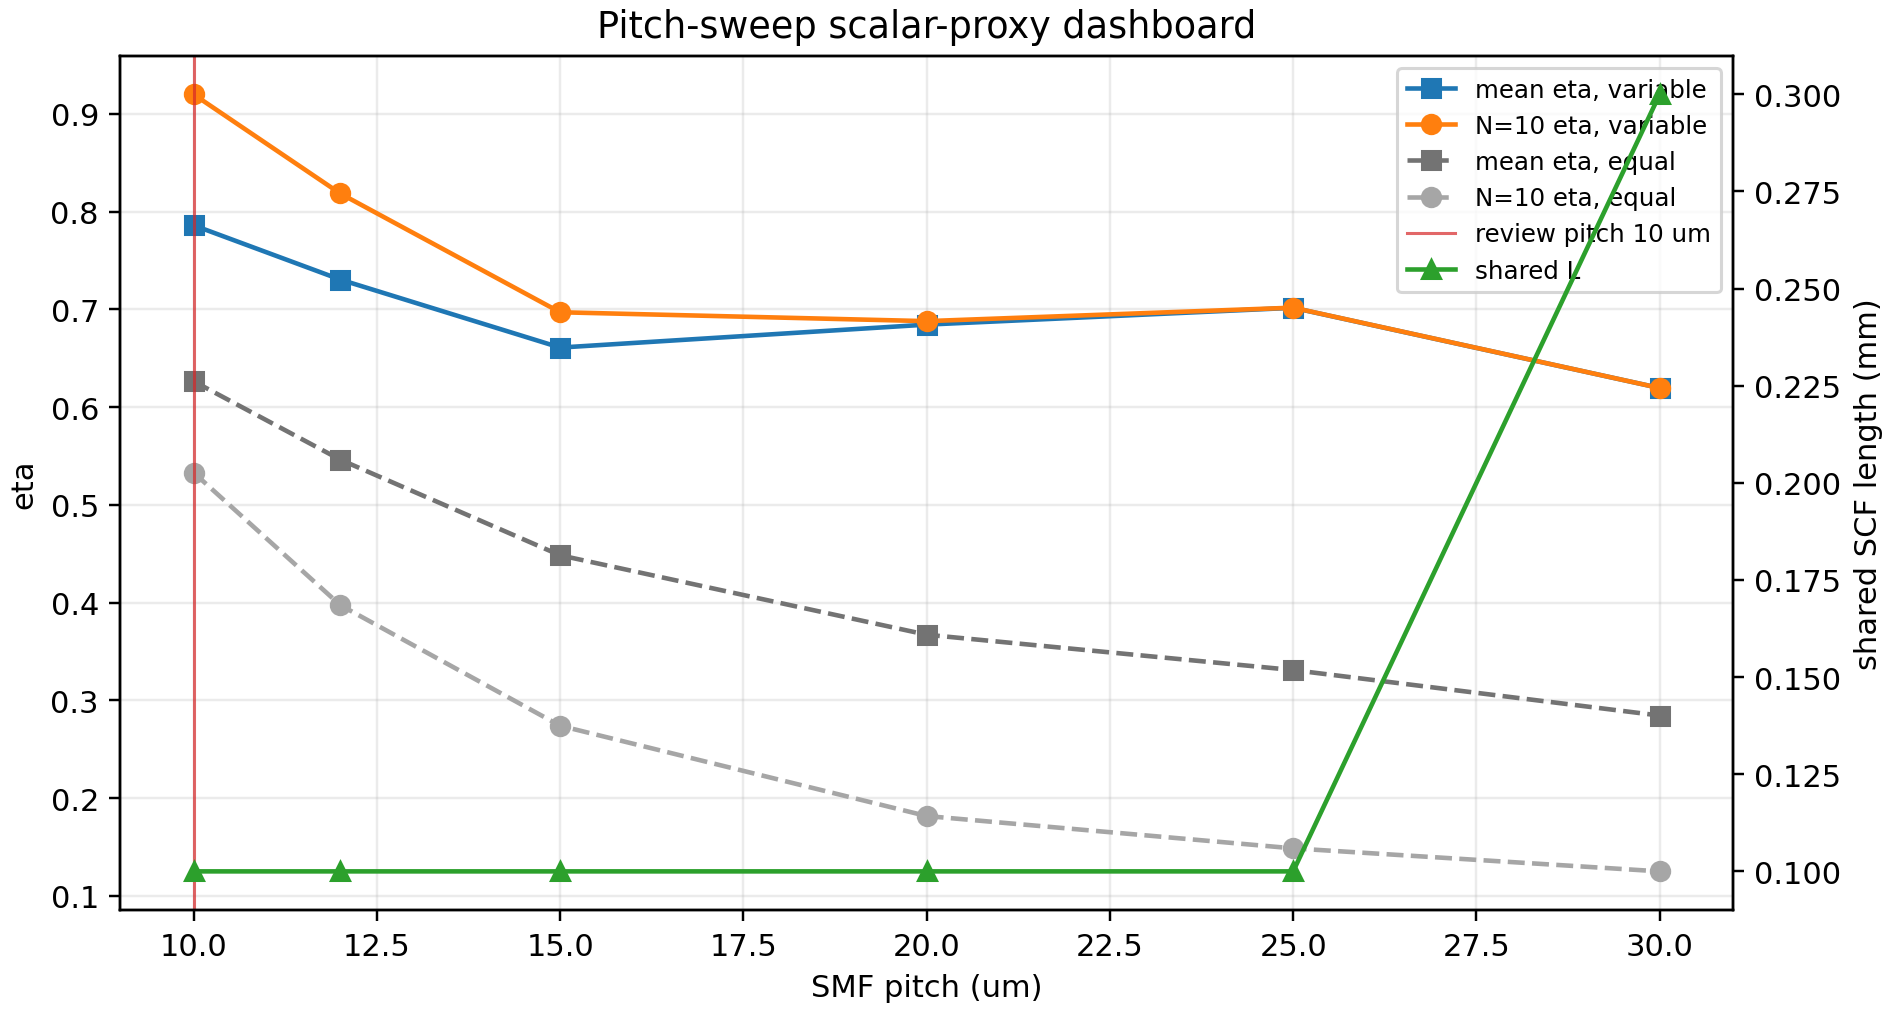
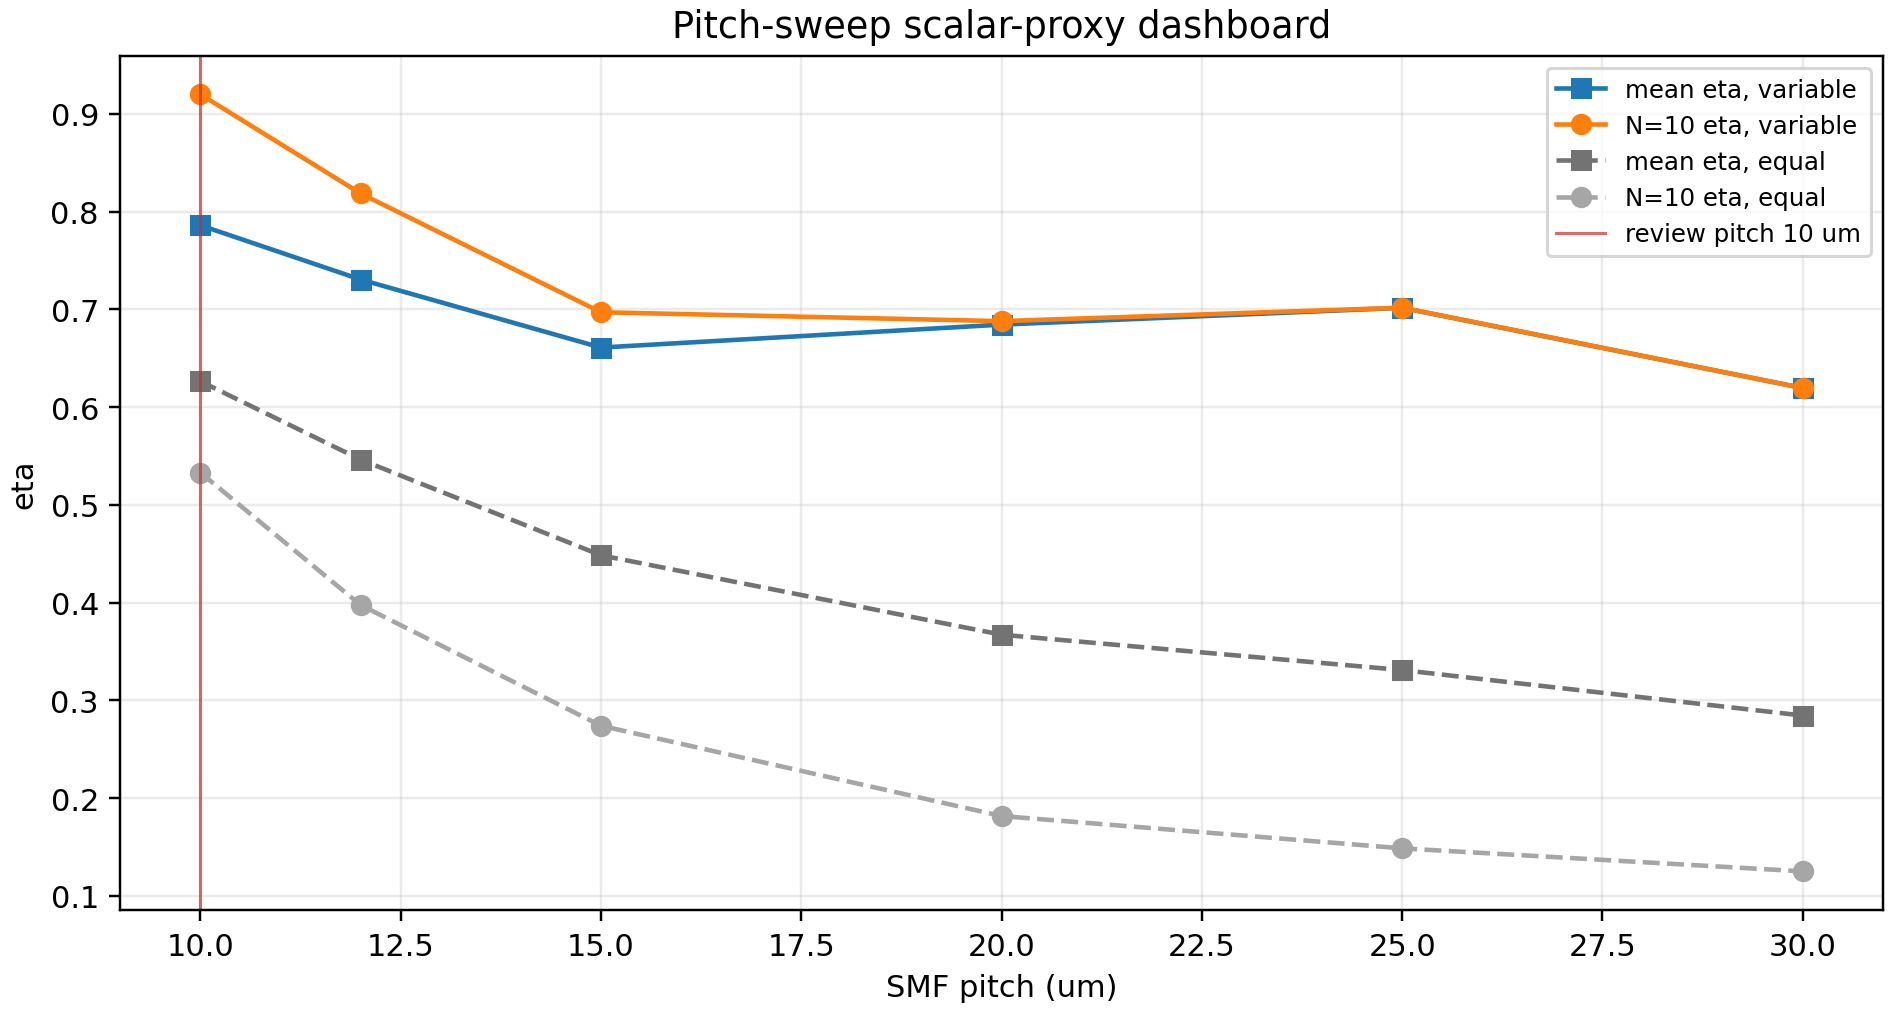
Remove shared length from pitch dashboard

diff --git a/binary_phase_2d_mmi/2026-06-01/final_review/README.md b/binary_phase_2d_mmi/2026-06-01/final_review/README.md
@@ -3,7 +3,7 @@
 Public image assets for embedding in the Notion page:
 https://www.notion.so/3722f066c71681dca075f264775cc6e9
 
-The relative field-plane figures are for shape comparison. SMF input panels normalize channel power to the strongest active SMF. The absolute-power figures use the same display convention: max SMF input power = 1, so equal-power N=10 has total independent input power 10.
+The relative field-plane figures are for shape comparison. SMF input panels normalize channel power to the strongest active SMF. The absolute-power figures use the same display convention: max SMF input power = 1, so equal-power N=10 has total independent input power 10. The pitch summary dashboard is eta-only and does not plot the shared-length curve.
 
 ## field_planes_pitch10_variable_by_count.png
 
@@ -64,5 +64,6 @@ The relative field-plane figures are for shape comparison. SMF input panels norm
 ## robustness_pitch10_variable.png
 
 ![robustness_pitch10_variable.png](https://raw.githubusercontent.com/bitzyc/scf-fmf-notion-assets/main/binary_phase_2d_mmi/2026-06-01/final_review/robustness_pitch10_variable.png)
+
 
 
